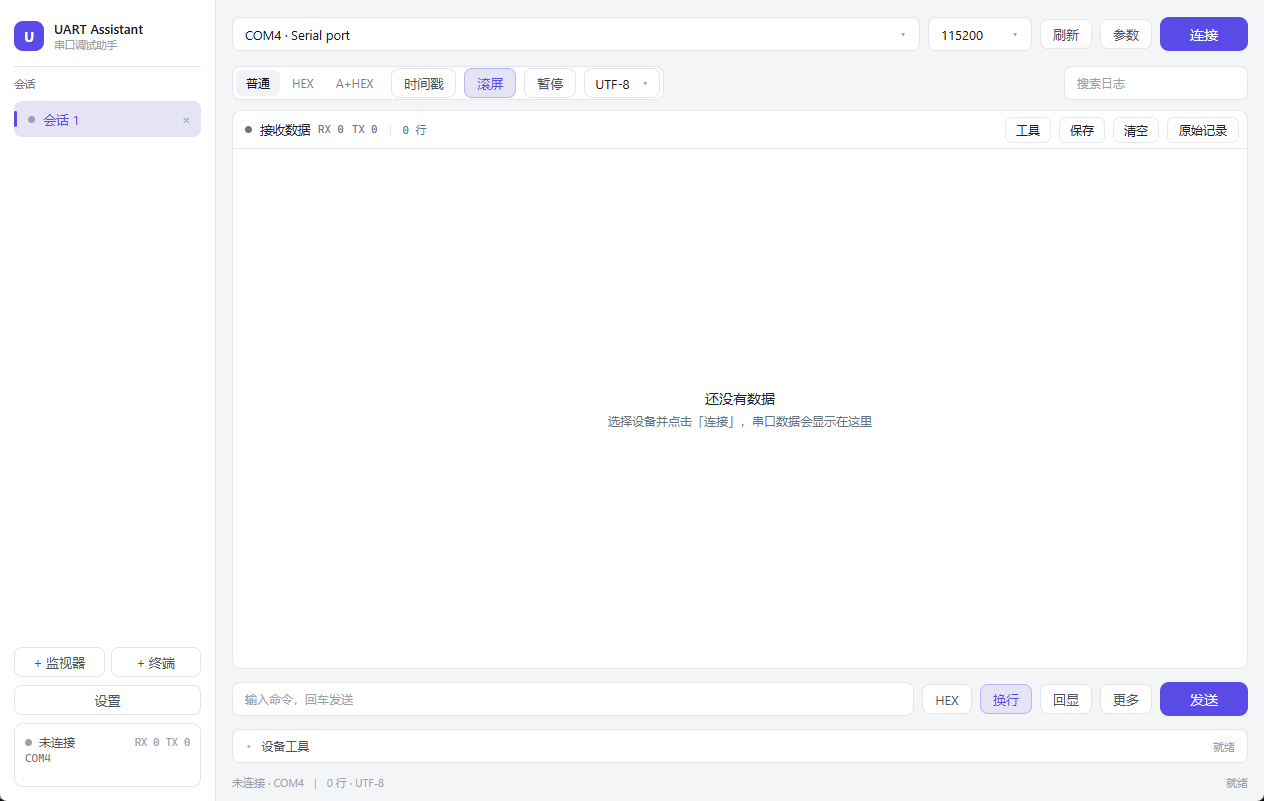
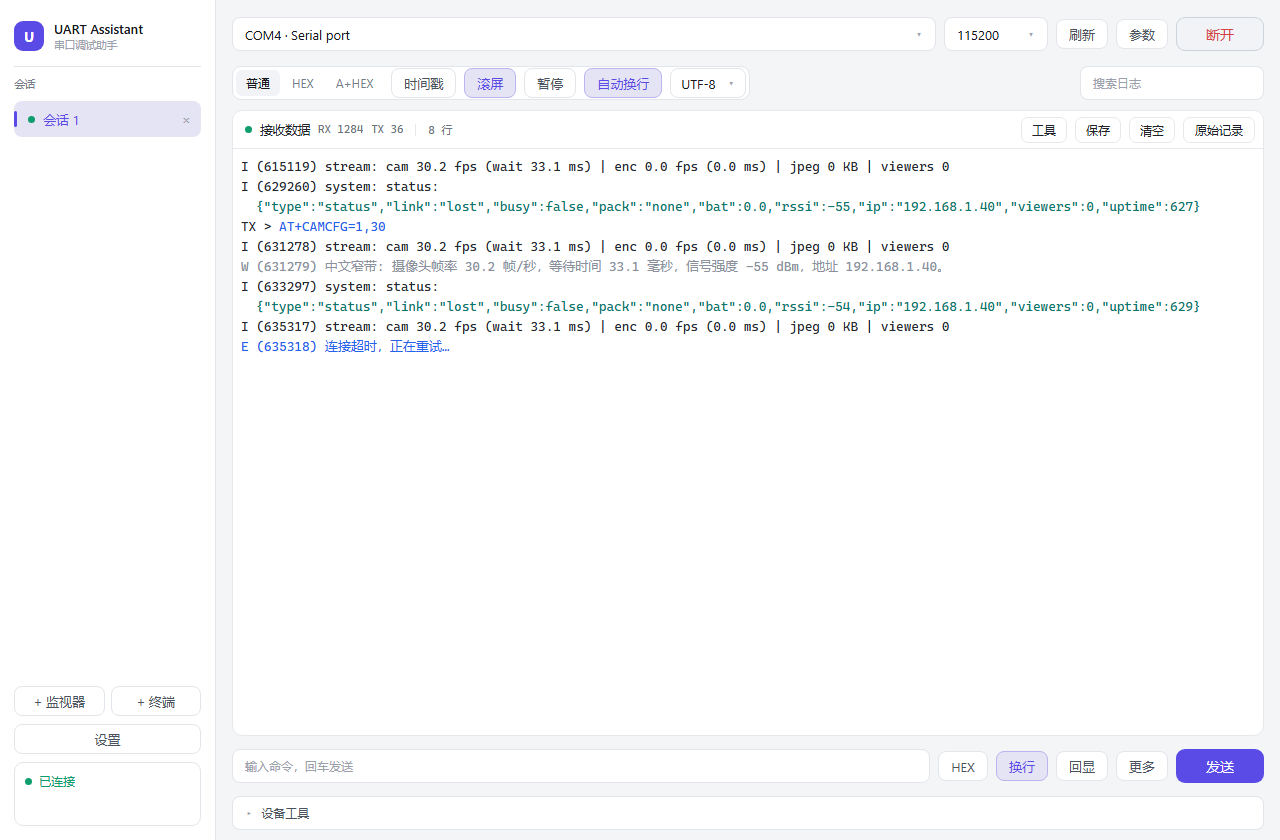
refactor(ui): 去掉重复的连接状态，每个区域只保留一件事
- 删掉底部状态行：它同时重复了连接状态、端口、行数、编码和消息
- 侧栏状态卡只留连接状态与端口，RX/TX 归到日志标题栏
- 设备工具行右侧只显示事件消息（错误、保存路径、XModem 进度），连接成功不再写入重复的连接文案
- 终端页隐藏行数
- 日志换行改为优先在空格处断开，避免把单词劈成两半
- 重新生成 docs/screenshots

diff --git a/ui/index.html b/ui/index.html
@@ -80,7 +80,6 @@
   .dot{width:7px; height:7px; border-radius:3.5px; background:var(--faint); flex:0 0 7px;}
   .dot.on{background:var(--ok);}
   .status-row .label{font-size:12px; font-weight:500; color:var(--secondary);}
-  .status-row .counts{margin-left:auto; font-family:var(--mono); font-size:10.5px; color:var(--faint);}
   .status-card .port{font-family:var(--mono); font-size:11px; color:var(--muted);
     overflow:hidden; text-overflow:ellipsis; white-space:nowrap;}
 
@@ -236,8 +235,6 @@
   .tools-panel .ghost{height:26px; font-size:12px;}
   .progress{width:120px; height:5px; border-radius:3px; background:var(--surface2); overflow:hidden;}
   .progress > i{display:block; height:100%; width:0; background:var(--accent); transition:width .12s linear;}
-  .statusline{height:18px; flex:0 0 18px; display:flex; gap:10px; align-items:center; font-size:11px; color:var(--faint);}
-  .statusline .right{margin-left:auto; overflow:hidden; text-overflow:ellipsis; white-space:nowrap; max-width:50%;}
 
   /* 终端模式下隐藏显示栏/发送栏/工具 */
   main.term-mode .display-bar, main.term-mode .send-bar, main.term-mode .tools, main.term-mode .tools-panel, main.term-mode .more, main.term-mode .params{display:none;}
@@ -316,7 +313,6 @@
       <div class="status-row">
         <span class="dot" id="sideDot"></span>
         <span class="label" id="sideState">未连接</span>
-        <span class="counts" id="sideCounts">RX 0 TX 0</span>
       </div>
       <div class="port" id="sidePort">未选择设备</div>
     </div>
@@ -348,7 +344,7 @@
         <span class="pill" id="timestampsBtn">时间戳</span>
         <span class="pill on" id="autoscrollBtn">滚屏</span>
         <span class="pill" id="pausedBtn">暂停</span>
-        <span class="pill on" id="wrapBtn">换行</span>
+        <span class="pill on" id="wrapBtn">自动换行</span>
         <div class="combo" id="encCombo"><span id="encLabel">UTF-8</span><span class="caret">▾</span></div>
       </div>
       <input class="search" id="searchInput" placeholder="搜索日志">
@@ -360,7 +356,7 @@
         <b id="consoleTitle">接收数据</b>
         <span class="meta" id="rxLabel">RX 0</span>
         <span class="meta" id="txLabel">TX 0</span>
-        <span class="vsep"></span>
+        <span class="vsep" id="lineSep"></span>
         <span class="meta" id="lineLabel">0 行</span>
         <div class="rec hidden" id="recIndicator"><span class="rec-dot"></span><span id="recText">原始记录</span></div>
         <span class="grow"></span>
@@ -405,7 +401,7 @@
       <button class="pill" id="loopBtn">开启</button>
     </div>
 
-    <div class="tools" id="toolsRow"><span class="arrow" id="toolsArrow">▸</span><span>设备工具</span><span class="right" id="toolsText">就绪</span></div>
+    <div class="tools" id="toolsRow"><span class="arrow" id="toolsArrow">▸</span><span>设备工具</span><span class="right" id="toolsText"></span></div>
 
     <div class="tools-panel hidden" id="toolsPanel">
       <span class="label">线路</span>
@@ -424,8 +420,6 @@
       <button class="ghost hidden" id="xmodemCancel">取消</button>
       <div class="progress hidden" id="xmodemProgress"><i id="xmodemBar"></i></div>
     </div>
-
-    <div class="statusline"><span id="statusLeft">未连接</span><span>|</span><span id="statusMid">0 行 · UTF-8</span><span class="right" id="statusRight">就绪</span></div>
   </main>
 
   <div class="menu" id="menu"></div>
@@ -619,6 +613,8 @@
     $("termView").classList.toggle("hidden", c.kind !== 1);
     if (c.kind === 1) setTimeout(() => $("termView").focus(), 0);
     $("wrapBtn").classList.toggle("on", S.wrap);
+    $("lineSep").classList.toggle("hidden", c.kind === 1);
+    $("lineLabel").classList.toggle("hidden", c.kind === 1);
 
     for (const el of document.querySelectorAll("[data-mode]")) {
       el.classList.toggle("on", Number(el.dataset.mode) === c.mode);
@@ -677,13 +673,9 @@
     $("sideDot").classList.toggle("on", s.connected);
     $("sideState").textContent = s.state;
     $("sideState").style.color = s.connected ? "var(--ok)" : "var(--secondary)";
-    $("sideCounts").textContent = "RX " + s.rx + " TX " + s.tx;
     $("rxLabel").textContent = "RX " + s.rx;
     $("txLabel").textContent = "TX " + s.tx;
     updateLineLabel();
-    $("statusLeft").textContent = s.state + (s.port ? " · " + s.port : "");
-    $("statusMid").textContent = s.lines + " 行 · " + $("encLabel").textContent;
-    $("statusRight").textContent = s.msg || "就绪";
     $("recIndicator").classList.toggle("hidden", !s.recording);
     $("recText").textContent = s.recordText || "原始记录";
     $("recordBtn").textContent = s.recording ? "停止记录" : "原始记录";
@@ -695,7 +687,7 @@
       $("xmodemBar").style.width = Math.round((s.progress || 0) * 100) + "%";
       $("toolsText").textContent = s.transferText || "传输中";
     } else {
-      $("toolsText").textContent = s.msg || "就绪";
+      $("toolsText").textContent = s.msg || "";
     }
   }
 
@@ -759,14 +751,31 @@
     }
     if (!text.length) { out.push({ k: key, s: 0, e: 0, cont: false }); return; }
     let s = 0, w = 0, avail = m.first, cont = false;
-    for (let i = 0; i < text.length; ) {
+    let i = 0;
+    while (i < text.length) {
       const code = text.codePointAt(i);
       const step = code > 0xffff ? 2 : 1;
       const ch = step === 2 ? text.slice(i, i + 2) : text[i];
       const cwid = charW(ch);
       if (w + cwid > avail && i > s) {
-        out.push({ k: key, s: s, e: i, cont: cont });
-        s = i; w = 0; avail = m.cont; cont = true;
+        // 优先在空格处断开，且保证断点之后的尾巴能放进续行
+        let brk = -1;
+        let tail = 0;
+        for (let j = i - 1; j > s; j--) {
+          if (text.charCodeAt(j) === 32 && tail + cwid <= m.cont) { brk = j; break; }
+          tail += charW(text[j]);
+        }
+        if (brk > s) {
+          out.push({ k: key, s: s, e: brk, cont: cont });
+          s = brk + 1; // 断点处的空格丢弃
+          w = tail;
+        } else {
+          out.push({ k: key, s: s, e: i, cont: cont });
+          s = i;
+          w = 0;
+        }
+        avail = m.cont;
+        cont = true;
       }
       w += cwid;
       i += step;

diff --git a/src/session.rs b/src/session.rs
@@ -58,10 +58,8 @@ impl Worker {
                 self.port = Some(port);
                 self.reconnect = None;
                 self.emit(tx, SessionEvent::State(ConnectionState::Connected));
-                self.emit(
-                    tx,
-                    SessionEvent::Message(format!("已连接 {} @ {}", self.settings.port, self.settings.baud)),
-                );
+                // 连接状态由指示灯/状态卡表达，这里只清空提示，避免同一句话重复显示
+                self.emit(tx, SessionEvent::Message(String::new()));
             }
             Err(err) => {
                 self.emit(tx, SessionEvent::State(ConnectionState::Disconnected));
@@ -88,7 +86,7 @@ impl Worker {
                 self.loop_enabled = false;
                 self.cancel.store(true, Ordering::Relaxed);
                 self.emit(tx, SessionEvent::State(ConnectionState::Disconnected));
-                self.emit(tx, SessionEvent::Message(if matches!(cmd, Command::Close) { "已断开" } else { "已停止重连" }.into()));
+                self.emit(tx, SessionEvent::Message(if matches!(cmd, Command::Close) { String::new() } else { "已停止重连".into() }));
             }
             Command::Send(data) => {
                 if let Some(port) = self.port.as_mut() {
@@ -266,7 +264,7 @@ impl Worker {
                 Ok(port) => {
                     self.port = Some(port);
                     self.emit(tx, SessionEvent::State(ConnectionState::Connected));
-                    self.emit(tx, SessionEvent::Message("重连成功".into()));
+                    self.emit(tx, SessionEvent::Message(String::new()));
                     return;
                 }
                 Err(err) => self.emit(tx, SessionEvent::Message(format!("重连失败: {}", err))),
@@ -372,7 +370,7 @@ impl Session {
             auto_reconnect,
             rx_bytes: 0,
             tx_bytes: 0,
-            last_message: "就绪".into(),
+            last_message: String::new(),
             transferring: false,
             transfer_text: String::new(),
             recording_active: false,
